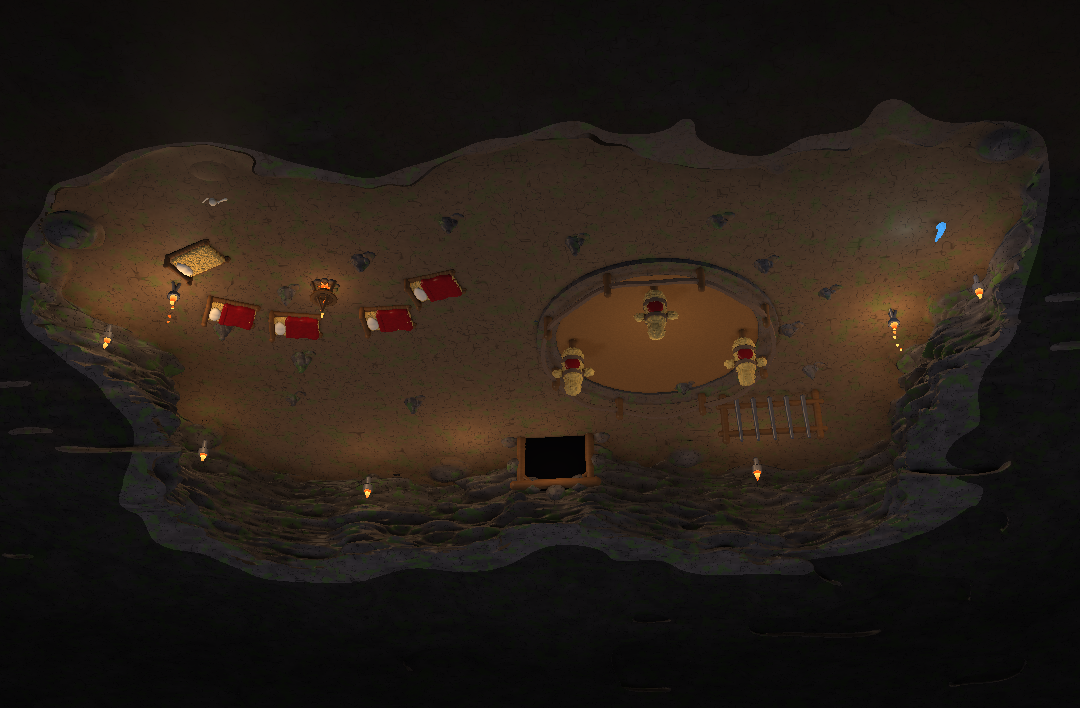
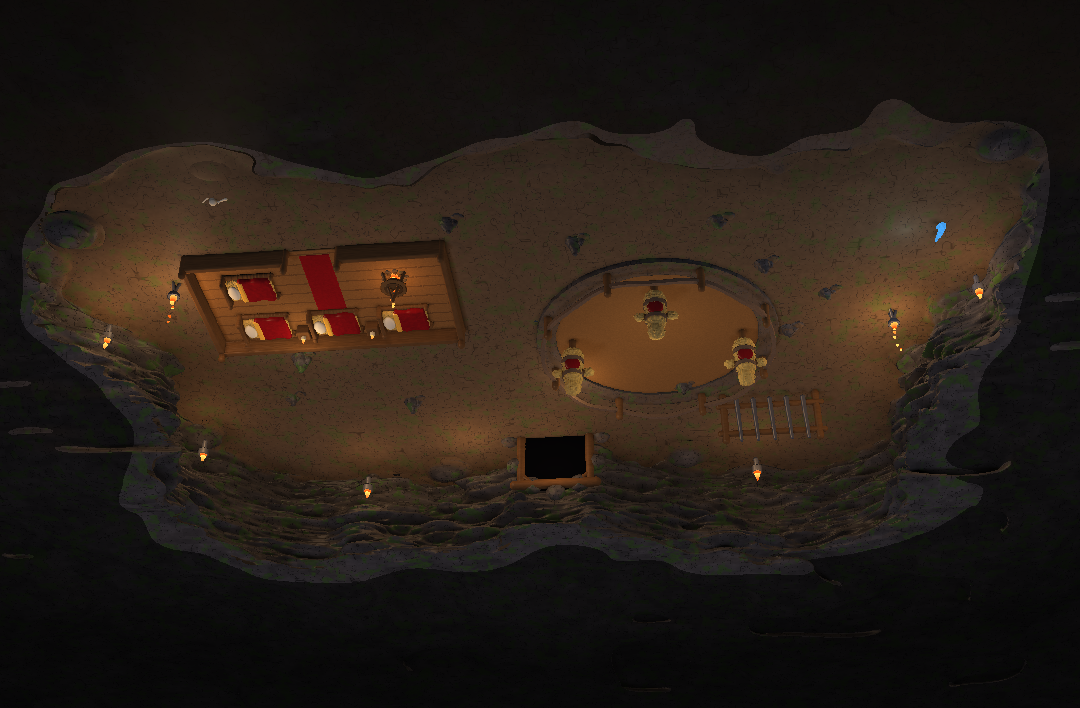
寝室（板壁で区切った部屋・ベッド4台・ろうそく・炉）
Claude-Session: https://claude.ai/code/session_01MpJPWy321815AwYbXUCf2V

Changed region(s): [[0.1528, 0.3418, 0.4278, 0.4972], [0.5194, 0.4972, 0.5806, 0.5904]]

diff --git a/index.html b/index.html
@@ -7242,7 +7242,7 @@ document.addEventListener("click", ev => {
 { const _oc2 = openChest19; openChest19 = function (S, c) { if (c.kind !== "lvall") return _oc2(S, c); if (!S.mons.length) return _oc2(S, c);
   return { text: "👑 覚醒", sub: "Lv+3 する子を1体えらんでね", sp: null, feed: 1, awaken: true, evos: [] }; }; }
 
-const VER20 = "No.251（11/20 14:56）";
+const VER20 = "No.252（11/20 15:39）";
 // ================= proto20：ダンジョンを見る画面と、配置する画面を分ける =================
 // ・ダンジョン画面：洞窟を大きく。部屋をタップ → 部屋ボード（全画面）
 // ・🧭育成：育てる→稼ぐ／守るの流れで見る。卒業Lv・毎朝おまかせ
@@ -10481,6 +10481,7 @@ SP3D24.gobx = 1; SP3D24.lich = 1;
   props += ` for(int i=0;i<16;i++){float fi=float(i);float a=fi*0.3927+0.2;vec2 c2=vec2(cos(a)*${f(2.45 * WX)},sin(a)*${f(1.45 * WZ)})*(0.86+0.12*sin(fi*3.7));if(abs(c2.x)<${f(0.6 * WX)}&&c2.y<0.0)continue;
   float h=0.4+0.55*fract(sin(fi*12.9)*43.7);vec3 sb=vec3(c2.x,0.0,c2.y);float sg=sTap(p,sb,sb+vec3(0.07,h,0.04),0.34+0.12*fract(fi*0.37),0.05);sg=min(sg,sTap(p,sb+vec3(0.3,0.0,0.14),sb+vec3(0.33,h*0.55,0.17),0.2,0.03));sg+=(vnoise(p*5.0)-0.5)*0.11+(vnoise(p*13.0)-0.5)*0.03;if(sg<r.x)r=vec2(sg*0.85,10.0);
   float rb=sEll(p-vec3(c2.x+0.45,0.05,c2.y+0.3),vec3(0.24,0.14,0.2))+(vnoise(p*9.0)-0.5)*0.04;if(rb<r.x)r=vec2(rb,10.0);}\n`;
+  { const RA = (ROOMS24[room] || {}).stalAvoid; if (RA && RA.length) props = props.replace("if(abs(c2.x)<", RA.map(([x, z, r]) => `if(length(c2-vec2(${f(x)},${f(z)}))<${f(r + 0.6)})continue;`).join("") + "if(abs(c2.x)<"); }   // 施設の上には床の岩を置かない
   const RR = ROOMS24[room] || {}; if (RR.noTorch) { props = props.split("\n").filter(l => !l.includes("r=vec2(st,18.0)") && !l.includes("r=vec2(fla,17.0)")).join("\n"); lights = ""; }
   if (RR.noStal) { const k = props.indexOf(" for(int i=0;i<16;i++)"); if (k >= 0) props = props.slice(0, k); }
   rp(" //PROPS\n", " //PROPS\n" + props);
@@ -10831,6 +10832,25 @@ const VEINBIG25 = (x, z, w) => { const X = (+x).toFixed(2), Z = (+z).toFixed(2),
 const SEAMX25 = () => ` {for(int i=0;i<9;i++){float fi=float(i);vec3 c=vec3(2.6+fi*0.85+sin(fi*3.1)*0.3,0.12,-10.0+cos(fi*2.3)*0.25);vec3 q=p-c;float k=sEll(q,vec3(0.32+0.12*mod(fi,2.0),0.2+0.08*mod(fi,3.0),0.28))+(vnoise(q*9.0)-0.5)*0.05;if(k<r.x)r=vec2(k,24.0);
    if(mod(fi,3.0)<0.5){float cr=sTap(q,vec3(0.0,0.1,0.0),vec3(0.12,0.45,0.15),0.09,0.01);if(cr<r.x)r=vec2(cr,21.0);}}}`;
 // 2Dの「鉱脈」と同じ形：壁ぎわの大きな岩に、紫・水色・緑の大きな結晶が生え、つるはしが刺さっている
+// 寝室（11/20）：低い板壁で四角く区切った部屋。板張りの床に赤い敷物、ベッド4台は壁ぞいに整列、枕元に小さな台とろうそく、すみに炉と鍋
+const BED1_25 = `  float fr=min(sTap(b,vec3(-1.05,0.13,-0.68),vec3(1.05,0.13,-0.68),0.09,0.09),sTap(b,vec3(-1.05,0.13,0.68),vec3(1.05,0.13,0.68),0.09,0.09));
+  fr=min(fr,sTap(b,vec3(-1.08,0.0,-0.72),vec3(-1.08,0.66,-0.72),0.08,0.07));fr=min(fr,sTap(b,vec3(-1.08,0.0,0.72),vec3(-1.08,0.66,0.72),0.08,0.07));fr=min(fr,sRBox(b-vec3(-1.08,0.42,0.0),vec3(0.05,0.2,0.7),0.02));
+  fr=min(fr,sTap(b,vec3(1.05,0.0,-0.68),vec3(1.05,0.3,-0.68),0.07,0.06));fr=min(fr,sTap(b,vec3(1.05,0.0,0.68),vec3(1.05,0.3,0.68),0.07,0.06));fr+=(vnoise(b*vec3(14.0,4.0,4.0))-0.5)*0.02;if(fr<r.x)r=vec2(fr,12.0);
+  float mt=sRBox(b-vec3(0,0.27,0),vec3(0.98,0.12,0.6),0.12)+(vnoise(b*11.0)-0.5)*0.05+(vnoise(b*vec3(30.0,8.0,30.0))-0.5)*0.03;if(mt<r.x)r=vec2(mt,13.0);
+  float bl=sRBox(b-vec3(0.3,0.32,0.0),vec3(0.66,0.11,0.66),0.07)+0.03*sin(b.x*7.0+b.z*2.0)*smoothstep(0.3,0.65,abs(b.z))+(vnoise(b*6.0)-0.5)*0.025;bl=max(bl,0.17-b.y);if(bl<r.x)r=vec2(bl,27.0);
+  float fo=sRBox(b-vec3(-0.34,0.44,0.0),vec3(0.08,0.035,0.62),0.03);if(fo<r.x)r=vec2(fo,28.0);
+  float pw=sEll(b-vec3(-0.72,0.45,0.0),vec3(0.22,0.1,0.38));if(pw<r.x)r=vec2(pw,15.0);`;
+const BEDROOM25 = () => ` {vec3 q=p;
+  float fl=sRBox(q-vec3(0.0,0.06,-1.5),vec3(5.55,0.06,3.1),0.01);float sm=abs(fract((q.z+4.6)*1.5)-0.5);if(fl<r.x)r=vec2(fl,sm>0.44?12.0:22.0);
+  float wl=sRBox(q-vec3(0.0,0.42,-4.6),vec3(5.68,0.42,0.09),0.02);wl=min(wl,sRBox(vec3(abs(q.x),q.y,q.z)-vec3(5.6,0.42,-1.5),vec3(0.09,0.42,3.1),0.02));
+  wl=min(wl,sRBox(vec3(abs(q.x),q.y,q.z)-vec3(3.38,0.42,1.6),vec3(2.22,0.42,0.09),0.02));wl+=(vnoise(q*vec3(2.0,16.0,2.0))-0.5)*0.012;
+  {vec3 a=vec3(abs(q.x),q.y,q.z);wl=min(wl,min(sTap(a,vec3(5.6,0.0,-4.6),vec3(5.6,1.1,-4.6),0.11,0.1),min(sTap(a,vec3(5.6,0.0,1.6),vec3(5.6,1.1,1.6),0.11,0.1),sTap(a,vec3(1.16,0.0,1.6),vec3(1.16,1.2,1.6),0.11,0.1))));}if(wl<r.x)r=vec2(wl,12.0);
+  for(int i=0;i<4;i++){vec3 c=i==0?vec3(-3.2,0.1,-3.3):i==1?vec3(0.0,0.1,-3.3):i==2?vec3(3.2,0.1,-3.3):vec3(-3.2,0.1,-0.45);vec3 b=q-c;
+${BED1_25}}
+  {vec3 a=vec3(abs(q.x),q.y,q.z)-vec3(1.6,0.0,-3.85);float ns=sRBox(a-vec3(0.0,0.3,0.0),vec3(0.26,0.28,0.24),0.03);if(ns<r.x)r=vec2(ns,12.0);
+   float cd=sTap(a,vec3(0.0,0.58,0.0),vec3(0.0,0.78,0.0),0.05,0.045);if(cd<r.x)r=vec2(cd,15.0);float fl2=sTap(a,vec3(0.0,0.8,0.0),vec3(0.0,0.95,0.0),0.04,0.0);if(fl2<r.x)r=vec2(fl2,17.0);}
+  {float rg=sRBox(q-vec3(0.0,0.13,-1.25),vec3(0.62,0.015,2.55),0.01);if(rg<r.x)r=vec2(rg,27.0);}
+ }`;
 const OREROCK25 = (x, z) => { const X = (+x).toFixed(2), Z = (+z).toFixed(2);
   return ` {vec3 q=(p-vec3(${X},0.0,${Z}))/1.45;vec2 rr=vec2(1e3,0.0);
   float rk=sEll(q-vec3(0.0,0.9,-0.5),vec3(2.5,1.55,1.75));rk=smin(rk,sEll(q-vec3(-1.6,0.4,0.4),vec3(1.0,0.6,0.8)),0.35);rk=smin(rk,sEll(q-vec3(1.7,0.35,0.3),vec3(0.9,0.5,0.7)),0.35);
@@ -10861,7 +10881,7 @@ const DOJO25 = (x, z) => { const X = (+x).toFixed(2), Z = (+z).toFixed(2);
 const HAI25 = (() => {
   const L = r => ROOMS24[r].props.split("\n");
   const T = L("train"), M = L("mine"), S = L("sleep");
-  const G = { train: [-9, -2], trainC: [0, -1.5], mine: [8, 0], sleep: [-4, 6.5], crate: [-2, -1.5] };   // まとまりごとのずらし（洞窟の単位）
+  const G = { train: [-9, -2], trainC: [0, -1.5], mine: [8, 0], sleep: [-4, 5.3], crate: [-2, -1.5] };   // まとまりごとのずらし（洞窟の単位）
   const MODS = [
     { id: "stake", name: "木人（打ちこみ台）", g: "train", txt: T.slice(1, 4).join("\n"), foot: [[2.54, -4.43, 0.7]] },
     { id: "rocks", name: "岩の山", g: "train", txt: T[4], foot: [[6.8, -3.9, 1.0]] },
@@ -10873,9 +10893,10 @@ const HAI25 = (() => {
     { id: "pebble", name: "鉱石のかけら", g: "mine", txt: M[9], foot: [] },
     { id: "pick", name: "つるはし立て", g: "mine", txt: M[10], foot: [[-2.25, -4.9, 0.5]] },
     { id: "lamp", name: "ランタンの柱", g: "mine", txt: M.slice(11, 13).join("\n"), light: "LIGHT(-0.85,1.22,0.9,1.0,0.66,0.32,3.0)", foot: [[-1.2, 0.9, 0.5]] },
-    { id: "bed", name: "寝わら（5つ）", g: "sleep", txt: S.slice(1, 4).join("\n"), foot: [[-4.6, -2.3, 1.25], [-1.9, -3.5, 1.25], [2.4, -3.4, 1.25], [4.9, -1.3, 1.25], [-5.0, 1.6, 1.25]],
-      beds: [[-4.6, -2.3], [-1.9, -3.5], [2.4, -3.4], [4.9, -1.3], [-5.0, 1.6]] },
-    { id: "pot", name: "たき火と鍋（寝床）", g: "sleep", txt: "FIREPIT(0.0,-0.9)\n" + S.slice(5, 9).join("\n"), light: "LIGHT(0.0,0.6,-0.9,1.0,0.55,0.22,3.6)", foot: [[0, -0.9, 0.9]] },
+    { id: "bed", name: "寝室（板壁・ベッド4つ）", g: "sleep", txt: BEDROOM25(), light: "LIGHT(-1.6,1.3,-3.85,1.0,0.68,0.36,2.8) LIGHT(1.6,1.3,-3.85,1.0,0.68,0.36,2.8)",
+      foot: [[-4.3, -3.4, 1.6], [-1.45, -3.4, 1.6], [1.45, -3.4, 1.6], [4.3, -3.4, 1.6], [-4.3, -0.5, 1.6], [-1.45, -0.6, 1.4], [1.45, -0.6, 1.4], [4.3, -0.5, 1.6], [-5.6, 1.4, 0.8], [5.6, 1.4, 0.8], [-2.4, 1.6, 0.9], [2.4, 1.6, 0.9], [-4.0, 1.6, 0.9], [4.0, 1.6, 0.9], [-5.6, -1.5, 0.9], [5.6, -1.5, 0.9]],
+      beds: [[-3.4, -3.3], [-0.2, -3.3], [3.0, -3.3], [-3.4, -0.45]] },
+    { id: "pot", name: "炉と鍋（寝室のすみ）", g: "sleep", txt: "FIREPIT(3.2,-0.5)\n" + S.slice(5, 9).join("\n").split("vec3(0.0,0.0,-0.9)").join("vec3(3.2,0.0,-0.5)"), light: "LIGHT(3.2,0.6,-0.5,1.0,0.55,0.22,3.6)", foot: [[3.2, -0.5, 0.9]] },
     { id: "crate", name: "木箱とランタン", g: "crate", txt: "CRATES", light: "LANTERNL", foot: [[-1.8, -4.2, 0.8], [-3.2, 3.55, 0.6]] },
     { id: "gate", name: "入口の門（奥の壁）", g: "none", txt: GATE25(0, -9.4, 0), light: "LIGHT(0.0,2.4,-8.4,1.0,0.6,0.3,2.2)", foot: [[0, -9.2, 1.8]] },
     { id: "gate2", name: "出口の門（右の壁）", g: "none", txt: GATE25(18.4, 0, 1), light: "LIGHT(17.2,2.4,0.0,1.0,0.6,0.3,2.0)", foot: [[18.0, 0, 1.6]] },
@@ -10911,7 +10932,7 @@ const HAI25 = (() => {
   // 選んだ施設から部屋を作る（名前は中身ごとに変える）
   function room(on){ const MS = modsOf(on), key = "c_" + MS.map(m => m.id.replace("@", "A").replace(/,/g, "_").replace(/-/g, "m").replace(/\./g, "p")).join("_");
     if (!ROOMS24[key]) { const ms = MS.filter(m => !m.shell);
-      ROOMS24[key] = { props: "\n" + ms.map(wrap).join("\n"), lights: ms.filter(m => m.light).map(lightOf).join(" "), keepDummy: !!on.dummy, noRack: !on.rack, noTorch: !on.torch, noStal: !on.stal, noBeam: true, seam: on.seam ? [6.0, -10.5, 4.2] : null }; }
+      ROOMS24[key] = { props: "\n" + ms.map(wrap).join("\n"), lights: ms.filter(m => m.light).map(lightOf).join(" "), keepDummy: !!on.dummy, noRack: !on.rack, noTorch: !on.torch, noStal: !on.stal, noBeam: true, seam: on.seam ? [6.0, -10.5, 4.2] : null, stalAvoid: foots(on).filter(f => f[2] >= 1.2) }; }
     return key; }
   // 施設の場所（ぶつからないように）
   function foots(on){ const F = [];
@@ -11066,19 +11087,19 @@ ROOMSET25.train_mine = ROOMSET25.train_mine.map(k => k === "orerockC" ? "orerock
 // 2つ施設の部屋は、施設どうしが重ならないように左右へ分ける（id@dx,dz でまとまりごと動かす）
 { const mv = (k, map) => { ROOMSET25[k] = ROOMSET25[k].map(m => map[m] !== undefined ? map[m] : m).filter(Boolean); };
   const rockR = d => ({ orerockC: "orerockC@" + d, orerock: "orerockC@" + d, lamp: "lamp@" + d, pebble: "pebble@" + d });
-  mv("mine_bed", Object.assign(rockR("6,-0.5"), { bed: "bed@-4,-1.5", pot: "pot@-4,-1.5" }));
+  mv("mine_bed", Object.assign(rockR("6,-0.5"), { bed: "bed@-4,-0.3", pot: "pot@-4,-0.3" }));
   mv("mine_nest", Object.assign(rockR("5.5,-0.5"), { nest: "nestL", nestS: "nestL" }));
-  mv("train_bed", { dojo: "dojo@5.5,-0.5", bed: "bed@-5,-1.5", pot: "pot@-5,-1.5" });
+  mv("train_bed", { dojo: "dojo@5.5,-0.5", bed: "bed@-5,-0.3", pot: "pot@-5,-0.3" });
   mv("train_nest", { dojo: "dojo@5.5,-0.5", nest: "nestL", nestS: "nestL" });
   mv("train_mine", Object.assign(rockR("7,-0.5"), { dojo: "dojo@-6.5,0.5" }));
-  mv("bed_nest", { bed: "bed@-3,-2", pot: "pot@-3,-2", nest: "nestR" }); }
+  mv("bed_nest", { bed: "bed@-3,-0.8", pot: "pot@-3,-0.8", nest: "nestR" }); }
 function roomKind25(i){ const R = S.path[i] || {}; if (i === lordIdx(S)) return "lord";
   let F = []; try { F = pkLayout24(i).F || []; } catch (e) {}
   { const two = KORD25.filter(k => F.includes(k) || (k === R.fac && !F.length)).slice(0, 2); if (two.length === 2) return two.join("_"); }
   return F.includes("train") ? "train" : F.includes("mine") ? "mine" : F.includes("bed") ? "bed" : R.fac === "mine" ? "mine" : R.fac === "bed" ? "bed" : R.fac === "train" ? "train" : F.includes("nest") || R.fac === "nest" ? "nest" : F.includes("watch") || R.fac === "watch" ? "watch" : F.includes("gate") || R.fac === "gate" ? "entry" : "plain"; }
 // 配った洞窟の絵（bg25/部屋の種類_c.png・_d.png）があれば、それを読み込む
 function setRoom25(i){ const C = B3.C; C.setRoom(B3.roomKey); const k = roomKind25(i); if (!BGSHIP25[k]) return; C.putBgImages(`bg25/${k}_c.webp?v=${BGSHIP25[k]}`, `bg25/${k}_d.webp?v=${BGSHIP25[k]}`, C.st.bgKey); }
-const BGSHIP25 = { train: "a0626023", mine: "a75a04d9", bed: "5a957785", lord: "8300d46a", plain: "6683282a", nest: "79d44eb4", watch: "46b0577d", entry: "52e41f17", train_mine: "e6d09ae2", train_bed: "07797128", train_nest: "d516a146", train_watch: "e1ad46e7", mine_bed: "fd1bfa8c", mine_nest: "ff6e8e1f", mine_watch: "72754dcf", bed_nest: "c0ed2d5f", bed_watch: "128be03b", nest_watch: "61532936", lordday: "8300d46a" };
+const BGSHIP25 = { train: "a0626023", mine: "a75a04d9", bed: "2a21739f", lord: "8300d46a", plain: "6683282a", nest: "79d44eb4", watch: "46b0577d", entry: "52e41f17", train_mine: "e6d09ae2", train_bed: "06723853", train_nest: "d516a146", train_watch: "e1ad46e7", mine_bed: "373f048c", mine_nest: "ff6e8e1f", mine_watch: "72754dcf", bed_nest: "6754c89d", bed_watch: "50cdec00", nest_watch: "61532936", lordday: "8300d46a" };
 function roomKey25(i){ const on = {}; ROOMSET25[roomKind25(i)].forEach(k => on[k] = true); return HAI25.room(on); }
 // ---- 3Dのキャラの種類 ----
 const heroSp25 = h => (typeof heroId === "function" ? String(heroId(h)).replace(/\d+$/, "") : h.job) || "warrior";
@@ -11565,7 +11586,7 @@ function droom25(i){ const kind = roomKind25(i), on = {}; ROOMSET25[kind].forEac
   return D3.act[i] = { sig, kind, acts, OB, beds: BEDS, nests: NESTS }; }
 // ---- 手前に立つ物（岩・柱・たいまつ・壁）のうしろに入った子を隠す ----
 // bg25/<部屋>_o.webp：半分の大きさ、明るさ＝カメラからの距離（255は床で、隠さない）
-const OCCV25 = {"bed":"cdcd9a","bed_nest":"2c664d","bed_watch":"212811","entry":"02e63e","lord":"33c3e1","lordday":"33c3e1","mine":"1bf5cb","mine_bed":"ecbda4","mine_nest":"a4afc8","mine_watch":"aa6931","nest":"353296","nest_watch":"a85f90","plain":"d8547b","train":"4da812","train_bed":"e480b6","train_mine":"0ab48c","train_nest":"8f5d0a","train_watch":"f9466e","watch":"400bc3"};
+const OCCV25 = {"bed":"1092d0","bed_nest":"b13fef","bed_watch":"5f78f4","entry":"02e63e","lord":"33c3e1","lordday":"33c3e1","mine":"1bf5cb","mine_bed":"810f17","mine_nest":"a4afc8","mine_watch":"aa6931","nest":"353296","nest_watch":"a85f90","plain":"d8547b","train":"4da812","train_bed":"3ec288","train_mine":"0ab48c","train_nest":"8f5d0a","train_watch":"f9466e","watch":"400bc3"};
 function docc25(bk){ const k = "occ:" + bk; if (D3.img[k]) return D3.img[k]; const o = D3.img[k] = { ok: 0 }; if (!OCCV25[bk]) return o;
   const im = new Image(); im.onload = () => { try { const c = document.createElement("canvas"); c.width = im.width; c.height = im.height; const g = c.getContext("2d"); g.drawImage(im, 0, 0);
     const d = g.getImageData(0, 0, im.width, im.height).data, q = new Uint8Array(im.width * im.height); for (let j = 0; j < q.length; j++) q[j] = d[j * 4];

diff --git a/v360.html b/v360.html
@@ -7242,7 +7242,7 @@ document.addEventListener("click", ev => {
 { const _oc2 = openChest19; openChest19 = function (S, c) { if (c.kind !== "lvall") return _oc2(S, c); if (!S.mons.length) return _oc2(S, c);
   return { text: "👑 覚醒", sub: "Lv+3 する子を1体えらんでね", sp: null, feed: 1, awaken: true, evos: [] }; }; }
 
-const VER20 = "No.251（11/20 14:56）";
+const VER20 = "No.252（11/20 15:39）";
 // ================= proto20：ダンジョンを見る画面と、配置する画面を分ける =================
 // ・ダンジョン画面：洞窟を大きく。部屋をタップ → 部屋ボード（全画面）
 // ・🧭育成：育てる→稼ぐ／守るの流れで見る。卒業Lv・毎朝おまかせ
@@ -10481,6 +10481,7 @@ SP3D24.gobx = 1; SP3D24.lich = 1;
   props += ` for(int i=0;i<16;i++){float fi=float(i);float a=fi*0.3927+0.2;vec2 c2=vec2(cos(a)*${f(2.45 * WX)},sin(a)*${f(1.45 * WZ)})*(0.86+0.12*sin(fi*3.7));if(abs(c2.x)<${f(0.6 * WX)}&&c2.y<0.0)continue;
   float h=0.4+0.55*fract(sin(fi*12.9)*43.7);vec3 sb=vec3(c2.x,0.0,c2.y);float sg=sTap(p,sb,sb+vec3(0.07,h,0.04),0.34+0.12*fract(fi*0.37),0.05);sg=min(sg,sTap(p,sb+vec3(0.3,0.0,0.14),sb+vec3(0.33,h*0.55,0.17),0.2,0.03));sg+=(vnoise(p*5.0)-0.5)*0.11+(vnoise(p*13.0)-0.5)*0.03;if(sg<r.x)r=vec2(sg*0.85,10.0);
   float rb=sEll(p-vec3(c2.x+0.45,0.05,c2.y+0.3),vec3(0.24,0.14,0.2))+(vnoise(p*9.0)-0.5)*0.04;if(rb<r.x)r=vec2(rb,10.0);}\n`;
+  { const RA = (ROOMS24[room] || {}).stalAvoid; if (RA && RA.length) props = props.replace("if(abs(c2.x)<", RA.map(([x, z, r]) => `if(length(c2-vec2(${f(x)},${f(z)}))<${f(r + 0.6)})continue;`).join("") + "if(abs(c2.x)<"); }   // 施設の上には床の岩を置かない
   const RR = ROOMS24[room] || {}; if (RR.noTorch) { props = props.split("\n").filter(l => !l.includes("r=vec2(st,18.0)") && !l.includes("r=vec2(fla,17.0)")).join("\n"); lights = ""; }
   if (RR.noStal) { const k = props.indexOf(" for(int i=0;i<16;i++)"); if (k >= 0) props = props.slice(0, k); }
   rp(" //PROPS\n", " //PROPS\n" + props);
@@ -10831,6 +10832,25 @@ const VEINBIG25 = (x, z, w) => { const X = (+x).toFixed(2), Z = (+z).toFixed(2),
 const SEAMX25 = () => ` {for(int i=0;i<9;i++){float fi=float(i);vec3 c=vec3(2.6+fi*0.85+sin(fi*3.1)*0.3,0.12,-10.0+cos(fi*2.3)*0.25);vec3 q=p-c;float k=sEll(q,vec3(0.32+0.12*mod(fi,2.0),0.2+0.08*mod(fi,3.0),0.28))+(vnoise(q*9.0)-0.5)*0.05;if(k<r.x)r=vec2(k,24.0);
    if(mod(fi,3.0)<0.5){float cr=sTap(q,vec3(0.0,0.1,0.0),vec3(0.12,0.45,0.15),0.09,0.01);if(cr<r.x)r=vec2(cr,21.0);}}}`;
 // 2Dの「鉱脈」と同じ形：壁ぎわの大きな岩に、紫・水色・緑の大きな結晶が生え、つるはしが刺さっている
+// 寝室（11/20）：低い板壁で四角く区切った部屋。板張りの床に赤い敷物、ベッド4台は壁ぞいに整列、枕元に小さな台とろうそく、すみに炉と鍋
+const BED1_25 = `  float fr=min(sTap(b,vec3(-1.05,0.13,-0.68),vec3(1.05,0.13,-0.68),0.09,0.09),sTap(b,vec3(-1.05,0.13,0.68),vec3(1.05,0.13,0.68),0.09,0.09));
+  fr=min(fr,sTap(b,vec3(-1.08,0.0,-0.72),vec3(-1.08,0.66,-0.72),0.08,0.07));fr=min(fr,sTap(b,vec3(-1.08,0.0,0.72),vec3(-1.08,0.66,0.72),0.08,0.07));fr=min(fr,sRBox(b-vec3(-1.08,0.42,0.0),vec3(0.05,0.2,0.7),0.02));
+  fr=min(fr,sTap(b,vec3(1.05,0.0,-0.68),vec3(1.05,0.3,-0.68),0.07,0.06));fr=min(fr,sTap(b,vec3(1.05,0.0,0.68),vec3(1.05,0.3,0.68),0.07,0.06));fr+=(vnoise(b*vec3(14.0,4.0,4.0))-0.5)*0.02;if(fr<r.x)r=vec2(fr,12.0);
+  float mt=sRBox(b-vec3(0,0.27,0),vec3(0.98,0.12,0.6),0.12)+(vnoise(b*11.0)-0.5)*0.05+(vnoise(b*vec3(30.0,8.0,30.0))-0.5)*0.03;if(mt<r.x)r=vec2(mt,13.0);
+  float bl=sRBox(b-vec3(0.3,0.32,0.0),vec3(0.66,0.11,0.66),0.07)+0.03*sin(b.x*7.0+b.z*2.0)*smoothstep(0.3,0.65,abs(b.z))+(vnoise(b*6.0)-0.5)*0.025;bl=max(bl,0.17-b.y);if(bl<r.x)r=vec2(bl,27.0);
+  float fo=sRBox(b-vec3(-0.34,0.44,0.0),vec3(0.08,0.035,0.62),0.03);if(fo<r.x)r=vec2(fo,28.0);
+  float pw=sEll(b-vec3(-0.72,0.45,0.0),vec3(0.22,0.1,0.38));if(pw<r.x)r=vec2(pw,15.0);`;
+const BEDROOM25 = () => ` {vec3 q=p;
+  float fl=sRBox(q-vec3(0.0,0.06,-1.5),vec3(5.55,0.06,3.1),0.01);float sm=abs(fract((q.z+4.6)*1.5)-0.5);if(fl<r.x)r=vec2(fl,sm>0.44?12.0:22.0);
+  float wl=sRBox(q-vec3(0.0,0.42,-4.6),vec3(5.68,0.42,0.09),0.02);wl=min(wl,sRBox(vec3(abs(q.x),q.y,q.z)-vec3(5.6,0.42,-1.5),vec3(0.09,0.42,3.1),0.02));
+  wl=min(wl,sRBox(vec3(abs(q.x),q.y,q.z)-vec3(3.38,0.42,1.6),vec3(2.22,0.42,0.09),0.02));wl+=(vnoise(q*vec3(2.0,16.0,2.0))-0.5)*0.012;
+  {vec3 a=vec3(abs(q.x),q.y,q.z);wl=min(wl,min(sTap(a,vec3(5.6,0.0,-4.6),vec3(5.6,1.1,-4.6),0.11,0.1),min(sTap(a,vec3(5.6,0.0,1.6),vec3(5.6,1.1,1.6),0.11,0.1),sTap(a,vec3(1.16,0.0,1.6),vec3(1.16,1.2,1.6),0.11,0.1))));}if(wl<r.x)r=vec2(wl,12.0);
+  for(int i=0;i<4;i++){vec3 c=i==0?vec3(-3.2,0.1,-3.3):i==1?vec3(0.0,0.1,-3.3):i==2?vec3(3.2,0.1,-3.3):vec3(-3.2,0.1,-0.45);vec3 b=q-c;
+${BED1_25}}
+  {vec3 a=vec3(abs(q.x),q.y,q.z)-vec3(1.6,0.0,-3.85);float ns=sRBox(a-vec3(0.0,0.3,0.0),vec3(0.26,0.28,0.24),0.03);if(ns<r.x)r=vec2(ns,12.0);
+   float cd=sTap(a,vec3(0.0,0.58,0.0),vec3(0.0,0.78,0.0),0.05,0.045);if(cd<r.x)r=vec2(cd,15.0);float fl2=sTap(a,vec3(0.0,0.8,0.0),vec3(0.0,0.95,0.0),0.04,0.0);if(fl2<r.x)r=vec2(fl2,17.0);}
+  {float rg=sRBox(q-vec3(0.0,0.13,-1.25),vec3(0.62,0.015,2.55),0.01);if(rg<r.x)r=vec2(rg,27.0);}
+ }`;
 const OREROCK25 = (x, z) => { const X = (+x).toFixed(2), Z = (+z).toFixed(2);
   return ` {vec3 q=(p-vec3(${X},0.0,${Z}))/1.45;vec2 rr=vec2(1e3,0.0);
   float rk=sEll(q-vec3(0.0,0.9,-0.5),vec3(2.5,1.55,1.75));rk=smin(rk,sEll(q-vec3(-1.6,0.4,0.4),vec3(1.0,0.6,0.8)),0.35);rk=smin(rk,sEll(q-vec3(1.7,0.35,0.3),vec3(0.9,0.5,0.7)),0.35);
@@ -10861,7 +10881,7 @@ const DOJO25 = (x, z) => { const X = (+x).toFixed(2), Z = (+z).toFixed(2);
 const HAI25 = (() => {
   const L = r => ROOMS24[r].props.split("\n");
   const T = L("train"), M = L("mine"), S = L("sleep");
-  const G = { train: [-9, -2], trainC: [0, -1.5], mine: [8, 0], sleep: [-4, 6.5], crate: [-2, -1.5] };   // まとまりごとのずらし（洞窟の単位）
+  const G = { train: [-9, -2], trainC: [0, -1.5], mine: [8, 0], sleep: [-4, 5.3], crate: [-2, -1.5] };   // まとまりごとのずらし（洞窟の単位）
   const MODS = [
     { id: "stake", name: "木人（打ちこみ台）", g: "train", txt: T.slice(1, 4).join("\n"), foot: [[2.54, -4.43, 0.7]] },
     { id: "rocks", name: "岩の山", g: "train", txt: T[4], foot: [[6.8, -3.9, 1.0]] },
@@ -10873,9 +10893,10 @@ const HAI25 = (() => {
     { id: "pebble", name: "鉱石のかけら", g: "mine", txt: M[9], foot: [] },
     { id: "pick", name: "つるはし立て", g: "mine", txt: M[10], foot: [[-2.25, -4.9, 0.5]] },
     { id: "lamp", name: "ランタンの柱", g: "mine", txt: M.slice(11, 13).join("\n"), light: "LIGHT(-0.85,1.22,0.9,1.0,0.66,0.32,3.0)", foot: [[-1.2, 0.9, 0.5]] },
-    { id: "bed", name: "寝わら（5つ）", g: "sleep", txt: S.slice(1, 4).join("\n"), foot: [[-4.6, -2.3, 1.25], [-1.9, -3.5, 1.25], [2.4, -3.4, 1.25], [4.9, -1.3, 1.25], [-5.0, 1.6, 1.25]],
-      beds: [[-4.6, -2.3], [-1.9, -3.5], [2.4, -3.4], [4.9, -1.3], [-5.0, 1.6]] },
-    { id: "pot", name: "たき火と鍋（寝床）", g: "sleep", txt: "FIREPIT(0.0,-0.9)\n" + S.slice(5, 9).join("\n"), light: "LIGHT(0.0,0.6,-0.9,1.0,0.55,0.22,3.6)", foot: [[0, -0.9, 0.9]] },
+    { id: "bed", name: "寝室（板壁・ベッド4つ）", g: "sleep", txt: BEDROOM25(), light: "LIGHT(-1.6,1.3,-3.85,1.0,0.68,0.36,2.8) LIGHT(1.6,1.3,-3.85,1.0,0.68,0.36,2.8)",
+      foot: [[-4.3, -3.4, 1.6], [-1.45, -3.4, 1.6], [1.45, -3.4, 1.6], [4.3, -3.4, 1.6], [-4.3, -0.5, 1.6], [-1.45, -0.6, 1.4], [1.45, -0.6, 1.4], [4.3, -0.5, 1.6], [-5.6, 1.4, 0.8], [5.6, 1.4, 0.8], [-2.4, 1.6, 0.9], [2.4, 1.6, 0.9], [-4.0, 1.6, 0.9], [4.0, 1.6, 0.9], [-5.6, -1.5, 0.9], [5.6, -1.5, 0.9]],
+      beds: [[-3.4, -3.3], [-0.2, -3.3], [3.0, -3.3], [-3.4, -0.45]] },
+    { id: "pot", name: "炉と鍋（寝室のすみ）", g: "sleep", txt: "FIREPIT(3.2,-0.5)\n" + S.slice(5, 9).join("\n").split("vec3(0.0,0.0,-0.9)").join("vec3(3.2,0.0,-0.5)"), light: "LIGHT(3.2,0.6,-0.5,1.0,0.55,0.22,3.6)", foot: [[3.2, -0.5, 0.9]] },
     { id: "crate", name: "木箱とランタン", g: "crate", txt: "CRATES", light: "LANTERNL", foot: [[-1.8, -4.2, 0.8], [-3.2, 3.55, 0.6]] },
     { id: "gate", name: "入口の門（奥の壁）", g: "none", txt: GATE25(0, -9.4, 0), light: "LIGHT(0.0,2.4,-8.4,1.0,0.6,0.3,2.2)", foot: [[0, -9.2, 1.8]] },
     { id: "gate2", name: "出口の門（右の壁）", g: "none", txt: GATE25(18.4, 0, 1), light: "LIGHT(17.2,2.4,0.0,1.0,0.6,0.3,2.0)", foot: [[18.0, 0, 1.6]] },
@@ -10911,7 +10932,7 @@ const HAI25 = (() => {
   // 選んだ施設から部屋を作る（名前は中身ごとに変える）
   function room(on){ const MS = modsOf(on), key = "c_" + MS.map(m => m.id.replace("@", "A").replace(/,/g, "_").replace(/-/g, "m").replace(/\./g, "p")).join("_");
     if (!ROOMS24[key]) { const ms = MS.filter(m => !m.shell);
-      ROOMS24[key] = { props: "\n" + ms.map(wrap).join("\n"), lights: ms.filter(m => m.light).map(lightOf).join(" "), keepDummy: !!on.dummy, noRack: !on.rack, noTorch: !on.torch, noStal: !on.stal, noBeam: true, seam: on.seam ? [6.0, -10.5, 4.2] : null }; }
+      ROOMS24[key] = { props: "\n" + ms.map(wrap).join("\n"), lights: ms.filter(m => m.light).map(lightOf).join(" "), keepDummy: !!on.dummy, noRack: !on.rack, noTorch: !on.torch, noStal: !on.stal, noBeam: true, seam: on.seam ? [6.0, -10.5, 4.2] : null, stalAvoid: foots(on).filter(f => f[2] >= 1.2) }; }
     return key; }
   // 施設の場所（ぶつからないように）
   function foots(on){ const F = [];
@@ -11066,19 +11087,19 @@ ROOMSET25.train_mine = ROOMSET25.train_mine.map(k => k === "orerockC" ? "orerock
 // 2つ施設の部屋は、施設どうしが重ならないように左右へ分ける（id@dx,dz でまとまりごと動かす）
 { const mv = (k, map) => { ROOMSET25[k] = ROOMSET25[k].map(m => map[m] !== undefined ? map[m] : m).filter(Boolean); };
   const rockR = d => ({ orerockC: "orerockC@" + d, orerock: "orerockC@" + d, lamp: "lamp@" + d, pebble: "pebble@" + d });
-  mv("mine_bed", Object.assign(rockR("6,-0.5"), { bed: "bed@-4,-1.5", pot: "pot@-4,-1.5" }));
+  mv("mine_bed", Object.assign(rockR("6,-0.5"), { bed: "bed@-4,-0.3", pot: "pot@-4,-0.3" }));
   mv("mine_nest", Object.assign(rockR("5.5,-0.5"), { nest: "nestL", nestS: "nestL" }));
-  mv("train_bed", { dojo: "dojo@5.5,-0.5", bed: "bed@-5,-1.5", pot: "pot@-5,-1.5" });
+  mv("train_bed", { dojo: "dojo@5.5,-0.5", bed: "bed@-5,-0.3", pot: "pot@-5,-0.3" });
   mv("train_nest", { dojo: "dojo@5.5,-0.5", nest: "nestL", nestS: "nestL" });
   mv("train_mine", Object.assign(rockR("7,-0.5"), { dojo: "dojo@-6.5,0.5" }));
-  mv("bed_nest", { bed: "bed@-3,-2", pot: "pot@-3,-2", nest: "nestR" }); }
+  mv("bed_nest", { bed: "bed@-3,-0.8", pot: "pot@-3,-0.8", nest: "nestR" }); }
 function roomKind25(i){ const R = S.path[i] || {}; if (i === lordIdx(S)) return "lord";
   let F = []; try { F = pkLayout24(i).F || []; } catch (e) {}
   { const two = KORD25.filter(k => F.includes(k) || (k === R.fac && !F.length)).slice(0, 2); if (two.length === 2) return two.join("_"); }
   return F.includes("train") ? "train" : F.includes("mine") ? "mine" : F.includes("bed") ? "bed" : R.fac === "mine" ? "mine" : R.fac === "bed" ? "bed" : R.fac === "train" ? "train" : F.includes("nest") || R.fac === "nest" ? "nest" : F.includes("watch") || R.fac === "watch" ? "watch" : F.includes("gate") || R.fac === "gate" ? "entry" : "plain"; }
 // 配った洞窟の絵（bg25/部屋の種類_c.png・_d.png）があれば、それを読み込む
 function setRoom25(i){ const C = B3.C; C.setRoom(B3.roomKey); const k = roomKind25(i); if (!BGSHIP25[k]) return; C.putBgImages(`bg25/${k}_c.webp?v=${BGSHIP25[k]}`, `bg25/${k}_d.webp?v=${BGSHIP25[k]}`, C.st.bgKey); }
-const BGSHIP25 = { train: "a0626023", mine: "a75a04d9", bed: "5a957785", lord: "8300d46a", plain: "6683282a", nest: "79d44eb4", watch: "46b0577d", entry: "52e41f17", train_mine: "e6d09ae2", train_bed: "07797128", train_nest: "d516a146", train_watch: "e1ad46e7", mine_bed: "fd1bfa8c", mine_nest: "ff6e8e1f", mine_watch: "72754dcf", bed_nest: "c0ed2d5f", bed_watch: "128be03b", nest_watch: "61532936", lordday: "8300d46a" };
+const BGSHIP25 = { train: "a0626023", mine: "a75a04d9", bed: "2a21739f", lord: "8300d46a", plain: "6683282a", nest: "79d44eb4", watch: "46b0577d", entry: "52e41f17", train_mine: "e6d09ae2", train_bed: "06723853", train_nest: "d516a146", train_watch: "e1ad46e7", mine_bed: "373f048c", mine_nest: "ff6e8e1f", mine_watch: "72754dcf", bed_nest: "6754c89d", bed_watch: "50cdec00", nest_watch: "61532936", lordday: "8300d46a" };
 function roomKey25(i){ const on = {}; ROOMSET25[roomKind25(i)].forEach(k => on[k] = true); return HAI25.room(on); }
 // ---- 3Dのキャラの種類 ----
 const heroSp25 = h => (typeof heroId === "function" ? String(heroId(h)).replace(/\d+$/, "") : h.job) || "warrior";
@@ -11565,7 +11586,7 @@ function droom25(i){ const kind = roomKind25(i), on = {}; ROOMSET25[kind].forEac
   return D3.act[i] = { sig, kind, acts, OB, beds: BEDS, nests: NESTS }; }
 // ---- 手前に立つ物（岩・柱・たいまつ・壁）のうしろに入った子を隠す ----
 // bg25/<部屋>_o.webp：半分の大きさ、明るさ＝カメラからの距離（255は床で、隠さない）
-const OCCV25 = {"bed":"cdcd9a","bed_nest":"2c664d","bed_watch":"212811","entry":"02e63e","lord":"33c3e1","lordday":"33c3e1","mine":"1bf5cb","mine_bed":"ecbda4","mine_nest":"a4afc8","mine_watch":"aa6931","nest":"353296","nest_watch":"a85f90","plain":"d8547b","train":"4da812","train_bed":"e480b6","train_mine":"0ab48c","train_nest":"8f5d0a","train_watch":"f9466e","watch":"400bc3"};
+const OCCV25 = {"bed":"1092d0","bed_nest":"b13fef","bed_watch":"5f78f4","entry":"02e63e","lord":"33c3e1","lordday":"33c3e1","mine":"1bf5cb","mine_bed":"810f17","mine_nest":"a4afc8","mine_watch":"aa6931","nest":"353296","nest_watch":"a85f90","plain":"d8547b","train":"4da812","train_bed":"3ec288","train_mine":"0ab48c","train_nest":"8f5d0a","train_watch":"f9466e","watch":"400bc3"};
 function docc25(bk){ const k = "occ:" + bk; if (D3.img[k]) return D3.img[k]; const o = D3.img[k] = { ok: 0 }; if (!OCCV25[bk]) return o;
   const im = new Image(); im.onload = () => { try { const c = document.createElement("canvas"); c.width = im.width; c.height = im.height; const g = c.getContext("2d"); g.drawImage(im, 0, 0);
     const d = g.getImageData(0, 0, im.width, im.height).data, q = new Uint8Array(im.width * im.height); for (let j = 0; j < q.length; j++) q[j] = d[j * 4];
